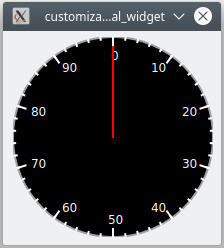
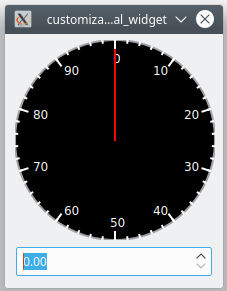
add control to receive user input and show updated value on dial.  modify readme. update screenshot.

diff --git a/main_window.cpp b/main_window.cpp
@@ -1,14 +1,16 @@
 #include "main_window.h"
 
 #include <QVBoxLayout>
+#include <QDoubleSpinBox>
 #include "dial_widget.h"
 
 MainWindow::MainWindow(QWidget *parent) :
   QMainWindow(parent)
 {
-  static const int DEMO_WINDOW_SIZE = 210;
+  static const int DEMO_WINDOW_X = 210;
+  static const int DEMO_WINDOW_Y = 250;
 
-  setFixedSize(DEMO_WINDOW_SIZE, DEMO_WINDOW_SIZE);
+  setFixedSize(DEMO_WINDOW_X, DEMO_WINDOW_Y);
 
   QWidget *widget = new QWidget();
   setCentralWidget(widget);
@@ -18,6 +20,13 @@ MainWindow::MainWindow(QWidget *parent) :
 
   DialWidget *dial = new DialWidget();
   layout->addWidget(dial);
+
+  QDoubleSpinBox *dialInput = new QDoubleSpinBox();
+  dialInput->setRange(dial->minValue(), dial->maxValue());
+  dialInput->setSingleStep(10);
+  layout->addWidget(dialInput);
+
+  QObject::connect(dialInput, SIGNAL(valueChanged(double)), dial, SLOT(setValue(double)), Qt::UniqueConnection);
 }
 
 MainWindow::~MainWindow()

diff --git a/dial_widget.cpp b/dial_widget.cpp
@@ -27,7 +27,18 @@ void DialWidget::setValue(double value)
   if ((value >= MIN_VALUE) && (value <= MAX_VALUE))
   {
     m_value = value;
+    update();
   }
+}
+
+int DialWidget::minValue()
+{
+  return MIN_VALUE;
+}
+
+int DialWidget::maxValue()
+{
+  return MAX_VALUE;
 }
 
 void DialWidget::paintEvent(QPaintEvent *)

diff --git a/dial_widget.h b/dial_widget.h
@@ -5,10 +5,16 @@
 #include <QPointF>
 
 class DialWidget : public QWidget {
+  Q_OBJECT
+
 public:
 
   explicit DialWidget(QWidget *parent = 0);
 
+  int minValue();
+  int maxValue();
+
+public slots:
   void setValue(double value);
 
 protected:

diff --git a/README.md b/README.md
@@ -4,7 +4,7 @@ The goal of this project is to provide a C++ / Qt dial widget that can easily be
 
 The DialWidget class contains the core functionality required to display a simple dial.  Create customized dials by inheriting the DialWidget, setting the values, and optionally overriding how it is rendered.
 
-Launching the provided demo brings up a simple desktop application with several examples.
+Launching the provided demo brings up a simple desktop application with several example dials.
 
 ![base dial](/demo_images/base_dial.png "Base DialWidget")
 
